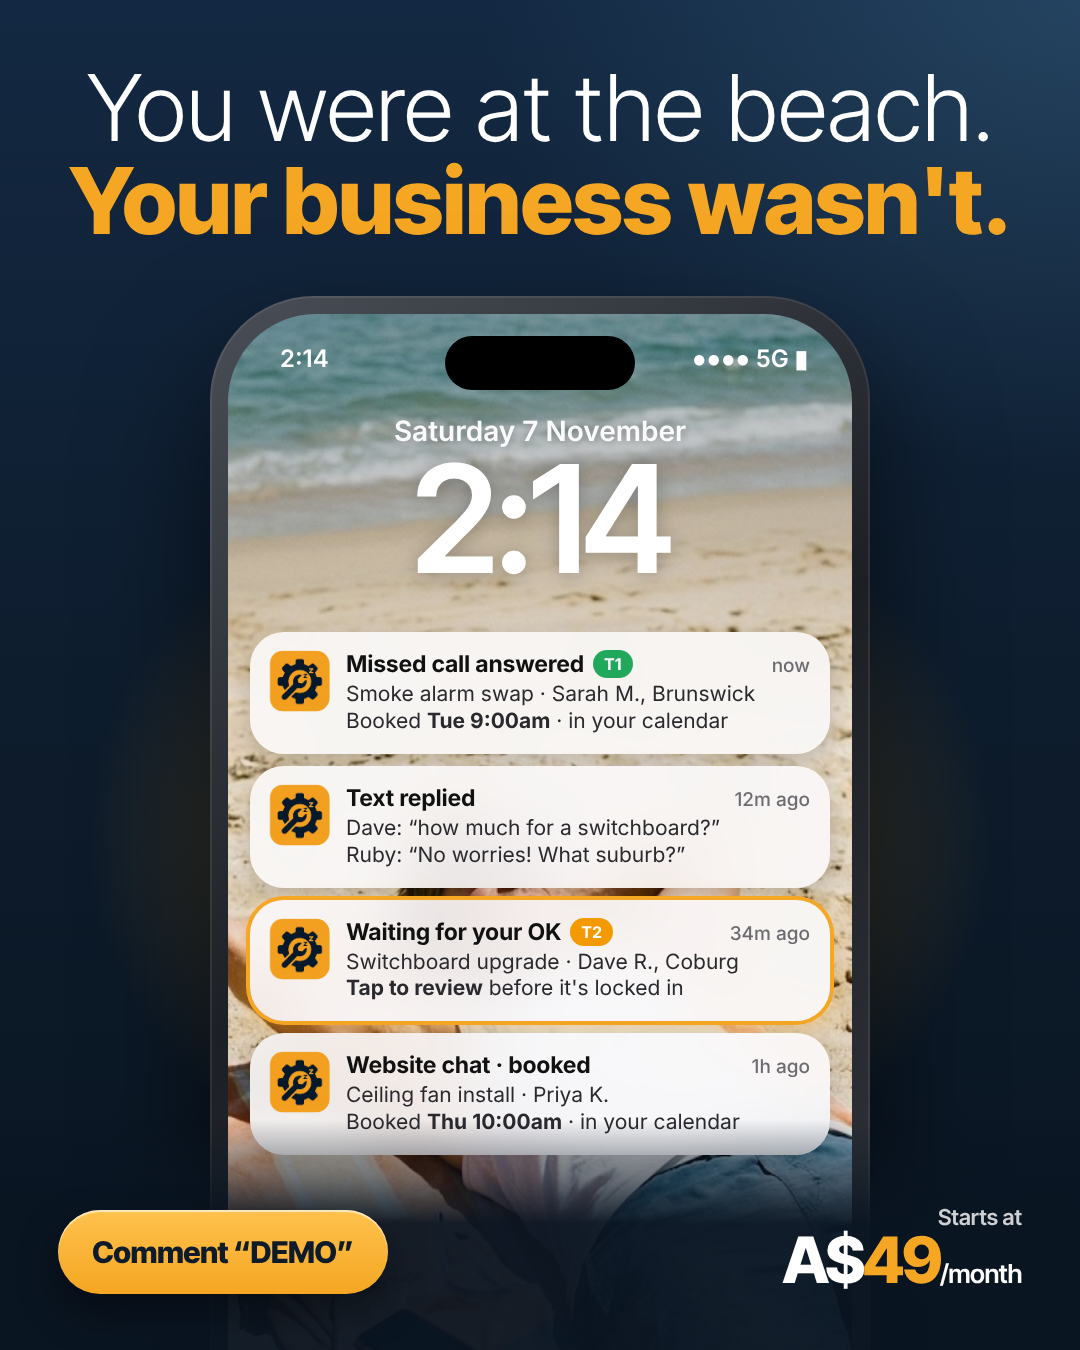
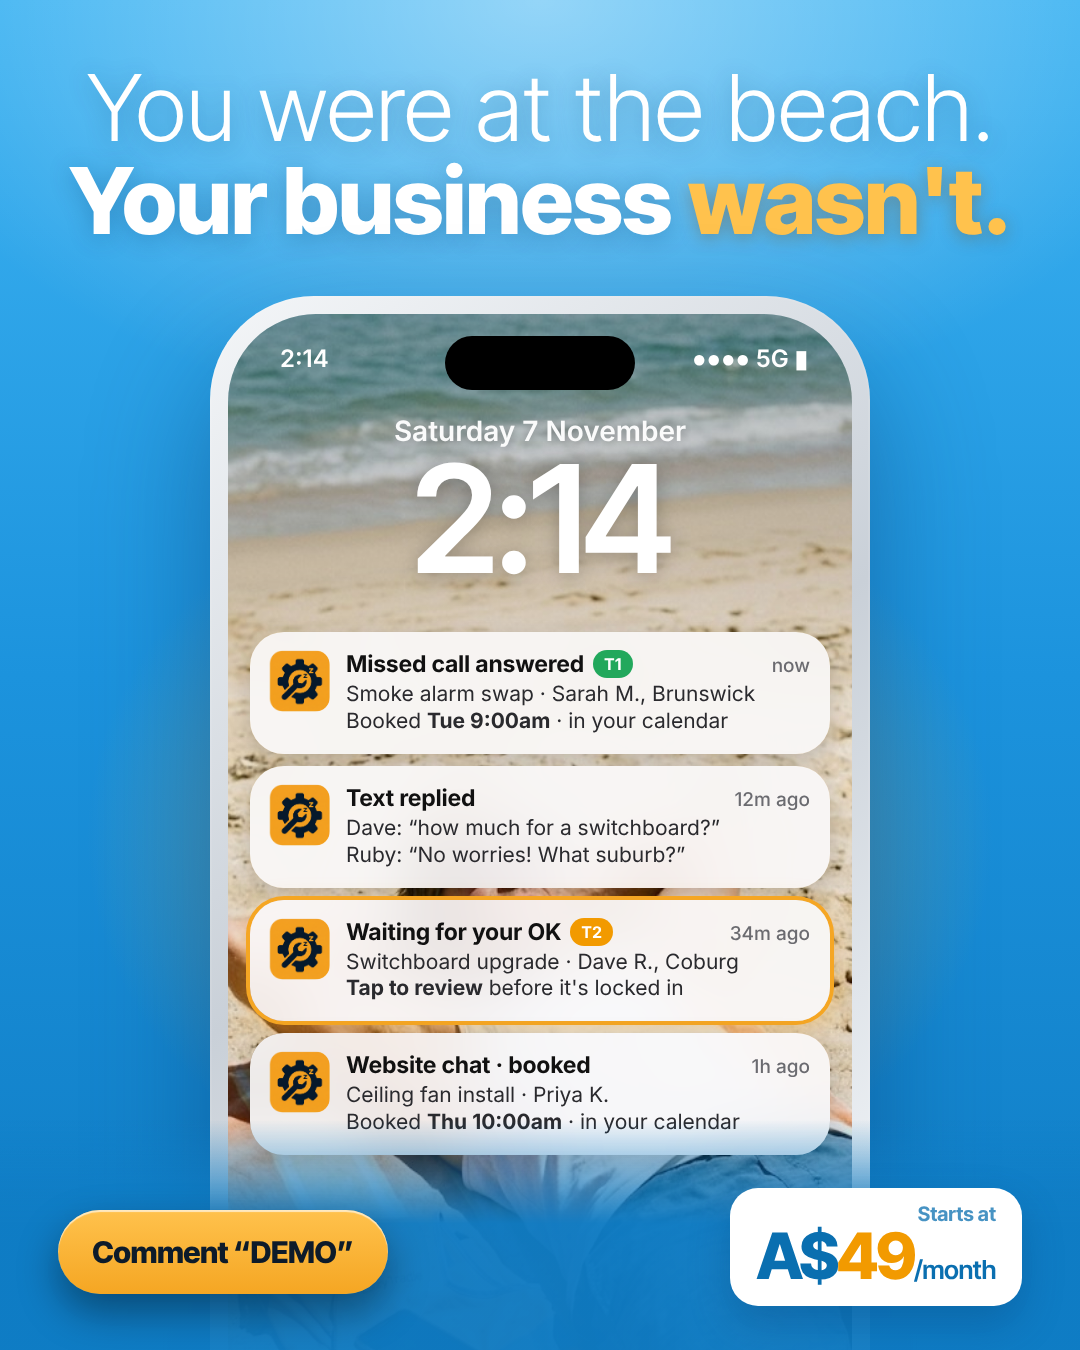
Lock-screen post: recolour to sky blue, white and amber (white phone, white price card)
Claude-Session: https://claude.ai/code/session_01K6yJh5Xf1XYHfAwWKMm4ff

diff --git a/campaign/07-nov/lockscreen/src/poster.html b/campaign/07-nov/lockscreen/src/poster.html
@@ -9,13 +9,13 @@
 *{margin:0;padding:0;box-sizing:border-box}
 body{font-family:'Inter Tight',sans-serif;-webkit-font-smoothing:antialiased;background:#000}
 #p{position:relative;width:1080px;height:1350px;overflow:hidden;color:#fff;
-  background:radial-gradient(60% 40% at 50% 62%,rgba(245,166,35,.45),rgba(245,166,35,0) 70%),radial-gradient(80% 50% at 100% 0%,rgba(127,211,255,.16),rgba(127,211,255,0) 70%),linear-gradient(180deg,#132842,#0D1B2A 60%,#0A1522)}
+  background:radial-gradient(60% 40% at 50% 62%,rgba(255,196,77,.55),rgba(255,196,77,0) 70%),radial-gradient(90% 45% at 50% 0%,rgba(255,255,255,.45),rgba(255,255,255,0) 70%),linear-gradient(180deg,#3DB3F2 0%,#1C93DD 50%,#0F7CC4 100%)}
 .story #p{height:1920px}
 .abs{position:absolute}
 .big{letter-spacing:-.05em;line-height:.95}
 /* phone */
 .phone{position:absolute;left:50%;transform:translateX(-50%);width:660px;height:1390px;border-radius:104px;padding:18px;
-  background:linear-gradient(145deg,#4a4f57,#1c1f24 40%,#2b2f35 70%,#5a5f67);box-shadow:0 60px 120px rgba(0,0,0,.6),0 0 0 2px rgba(255,255,255,.08) inset}
+  background:linear-gradient(145deg,#f4f6f8,#c9d0d8 40%,#e9edf1 70%,#ffffff);box-shadow:0 60px 120px rgba(6,60,110,.45),0 0 0 2px rgba(255,255,255,.08) inset}
 .screen{position:relative;width:100%;height:100%;border-radius:88px;overflow:hidden;background:#1a2a3a url(img/wall.jpg) center 30%/cover}
 .screen:before{content:'';position:absolute;inset:0;background:linear-gradient(180deg,rgba(0,0,0,.25),rgba(0,0,0,0) 30%,rgba(0,0,0,.15))}
 .island{position:absolute;left:50%;top:22px;transform:translateX(-50%);width:190px;height:54px;border-radius:27px;background:#000}
@@ -38,8 +38,8 @@ body{font-family:'Inter Tight',sans-serif;-webkit-font-smoothing:antialiased;bac
 </style></head><body>
 <div id="p">
   <div class="abs big hl1" style="left:0;right:0;top:64px;text-align:center">
-    <div style="font-size:92px;font-weight:300">You were at the beach.</div>
-    <div style="font-size:92px;font-weight:800;color:#F5A623;margin-top:6px">Your business wasn't.</div></div>
+    <div style="font-size:92px;font-weight:300;text-shadow:0 3px 24px rgba(6,60,110,.3)">You were at the beach.</div>
+    <div style="font-size:92px;font-weight:800;margin-top:6px;text-shadow:0 3px 24px rgba(6,60,110,.3)">Your business <span style="color:#FFC24D;text-shadow:0 3px 18px rgba(120,60,0,.35)">wasn't.</span></div></div>
 
   <div class="phone" id="ph" style="top:296px">
     <div class="screen">
@@ -60,11 +60,11 @@ body{font-family:'Inter Tight',sans-serif;-webkit-font-smoothing:antialiased;bac
     </div>
   </div>
 
-  <div class="abs" id="foot" style="left:0;right:0;bottom:0;height:230px;background:linear-gradient(180deg,rgba(10,21,34,0),rgba(10,21,34,.95) 45%)"></div>
+  <div class="abs" id="foot" style="left:0;right:0;bottom:0;height:230px;background:linear-gradient(180deg,rgba(15,124,196,0),rgba(15,124,196,.96) 45%)"></div>
   <div class="chip" id="cta" style="left:58px;bottom:56px">Comment “DEMO”</div>
-  <div class="abs" id="pr" style="right:58px;bottom:58px;text-align:right;line-height:1">
-    <div style="font-size:22px;font-weight:600;opacity:.8">Starts at</div>
-    <div style="font-size:64px;font-weight:800;letter-spacing:-.05em">A$<span style="color:#F5A623">49</span><span style="font-size:26px;font-weight:600;letter-spacing:-.02em">/month</span></div></div>
+  <div class="abs" id="pr" style="right:58px;bottom:44px;text-align:right;line-height:1;background:#fff;color:#0A6FB0;padding:16px 26px 18px;border-radius:28px;box-shadow:0 18px 40px rgba(6,60,110,.3)">
+    <div style="font-size:20px;font-weight:700;opacity:.75">Starts at</div>
+    <div style="font-size:64px;font-weight:800;letter-spacing:-.05em">A$<span style="color:#F29A00">49</span><span style="font-size:26px;font-weight:600;letter-spacing:-.02em">/month</span></div></div>
   <img class="abs" id="wm" src="img/wm_white.png" style="left:50%;transform:translateX(-50%);bottom:76px;width:170px;display:none">
 </div>
 <script>
